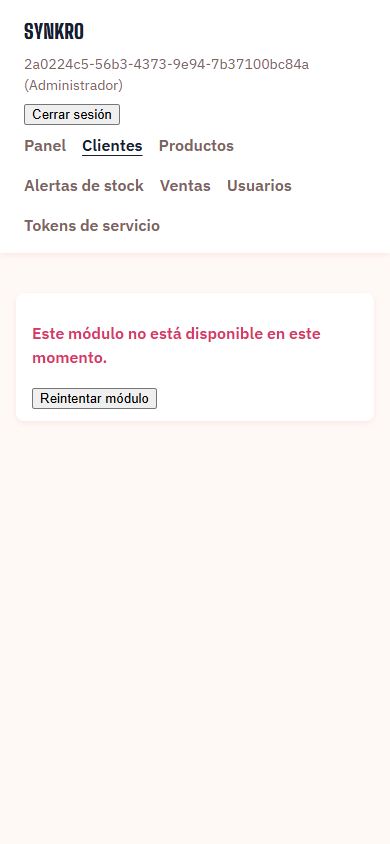
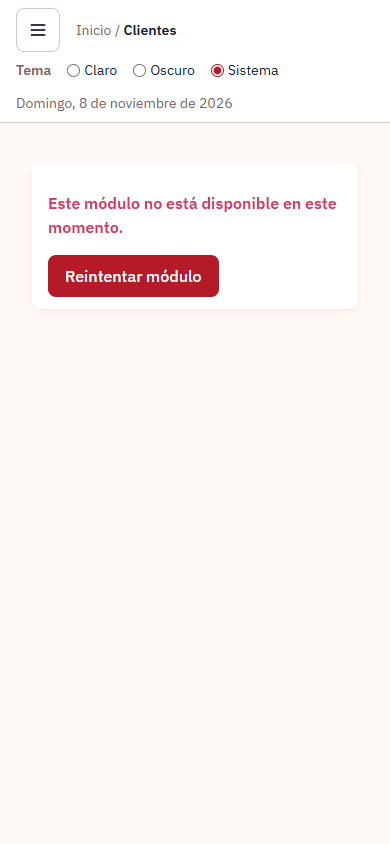
test(customers): accept HU-CLI-05 in the real Host, Gateway, Auth, API and database
Extend the real-stack browser acceptance with mandatory contacts, bounded
search states (empty, loading, error, stale response), keyboard use, ADMIN
reactivation, SALESPERSON denial and a 127.0.0.1 origin check. The Host now
keeps sign-out in its account menu and the Gateway limits logins, so the
script follows both. Evidence and documentation record the result; the Sales
integration (HU-VEN-20) is not part of this run.

Refs code-corhuila/synkro-docs#304

Changed region(s): [[0.0615, 0.2156, 0.8615, 0.4313], [0.0308, 0.0, 0.8, 0.1848], [0.0923, 0.4621, 0.4, 0.4929]]

diff --git a/docs/hu-cli-05-portal.md b/docs/hu-cli-05-portal.md
@@ -36,6 +36,24 @@ La autorización real está en la API (ruta y caso de uso); el portal solo decid
 ## Verificación
 
 `npm test` (56 pruebas: servicio, validación, formulario, búsqueda, reactivación, accesibilidad básica y cancelación),
-`npm run typecheck`, `npm run lint`, `npm run coverage` y `npm run build` pasan en local. La aceptación en navegador con
-servicios reales (`node scripts/acceptance.mjs`) **no** se ejecutó en este trabajo: queda pendiente la verificación
-conjunta con el Host, la API y la base de datos de esta HU (y con el portal de Ventas de HU-VEN-20).
+`npm run typecheck`, `npm run lint`, `npm run coverage` y `npm run build` pasan en local.
+
+### Aceptación en navegador con servicios reales (solo Clientes)
+
+`node scripts/acceptance.mjs` (Microsoft Edge de Playwright, Host `synkro-front`, Gateway, Auth, API de Clientes y PostgreSQL
+desechable; ningún doble de respuesta de API) pasa, con las revisiones y las imágenes exactas en `evidence/browser-result.json`.
+Para esta HU comprueba, además de los flujos previos:
+
+- alta y edición con contactos obligatorios: errores por campo, foco en el primer campo inválido y **ninguna** petición cuando
+  el formulario es inválido; la API rechaza por su cuenta correo/teléfono/dirección inválidos con `400` sin escribir nada;
+- búsqueda: validación 2–100 antes de enviar, sin tildes ni mayúsculas, documento exacto primero, máximo 5 con el aviso de
+  que hay más, estados vacío / cargando / error con referencia y reintento, **respuesta tardía descartada**, texto solo en
+  el cuerpo del POST (no en URL, consola ni logs de los participantes) y teclado (Tab, Enter);
+- reactivación como ADMIN: diálogo con foco, Escape devuelve el foco, una fila de auditoría y repetición idempotente;
+- SALESPERSON: sin control de reactivar ni selector de estado; la API responde `403` también con cabeceras falsificadas,
+  para INVENTORY y `401` sin token; `PUT` sobre un inactivo sigue siendo `404`;
+- el mismo flujo contra `http://localhost` y `http://127.0.0.1` (la sonda de `127.0.0.1` inicia sesión y busca).
+
+Límites: es **solo Clientes**. La integración conjunta con el portal de Ventas (HU-VEN-20) sigue **pendiente** y requiere la
+revisión concreta de Sergio. El Gateway limita el inicio de sesión (5 rápidos y luego 1 por minuto), por eso el script espera
+65 s antes de los inicios de sesión sexto y séptimo; no se modificó el Gateway.
